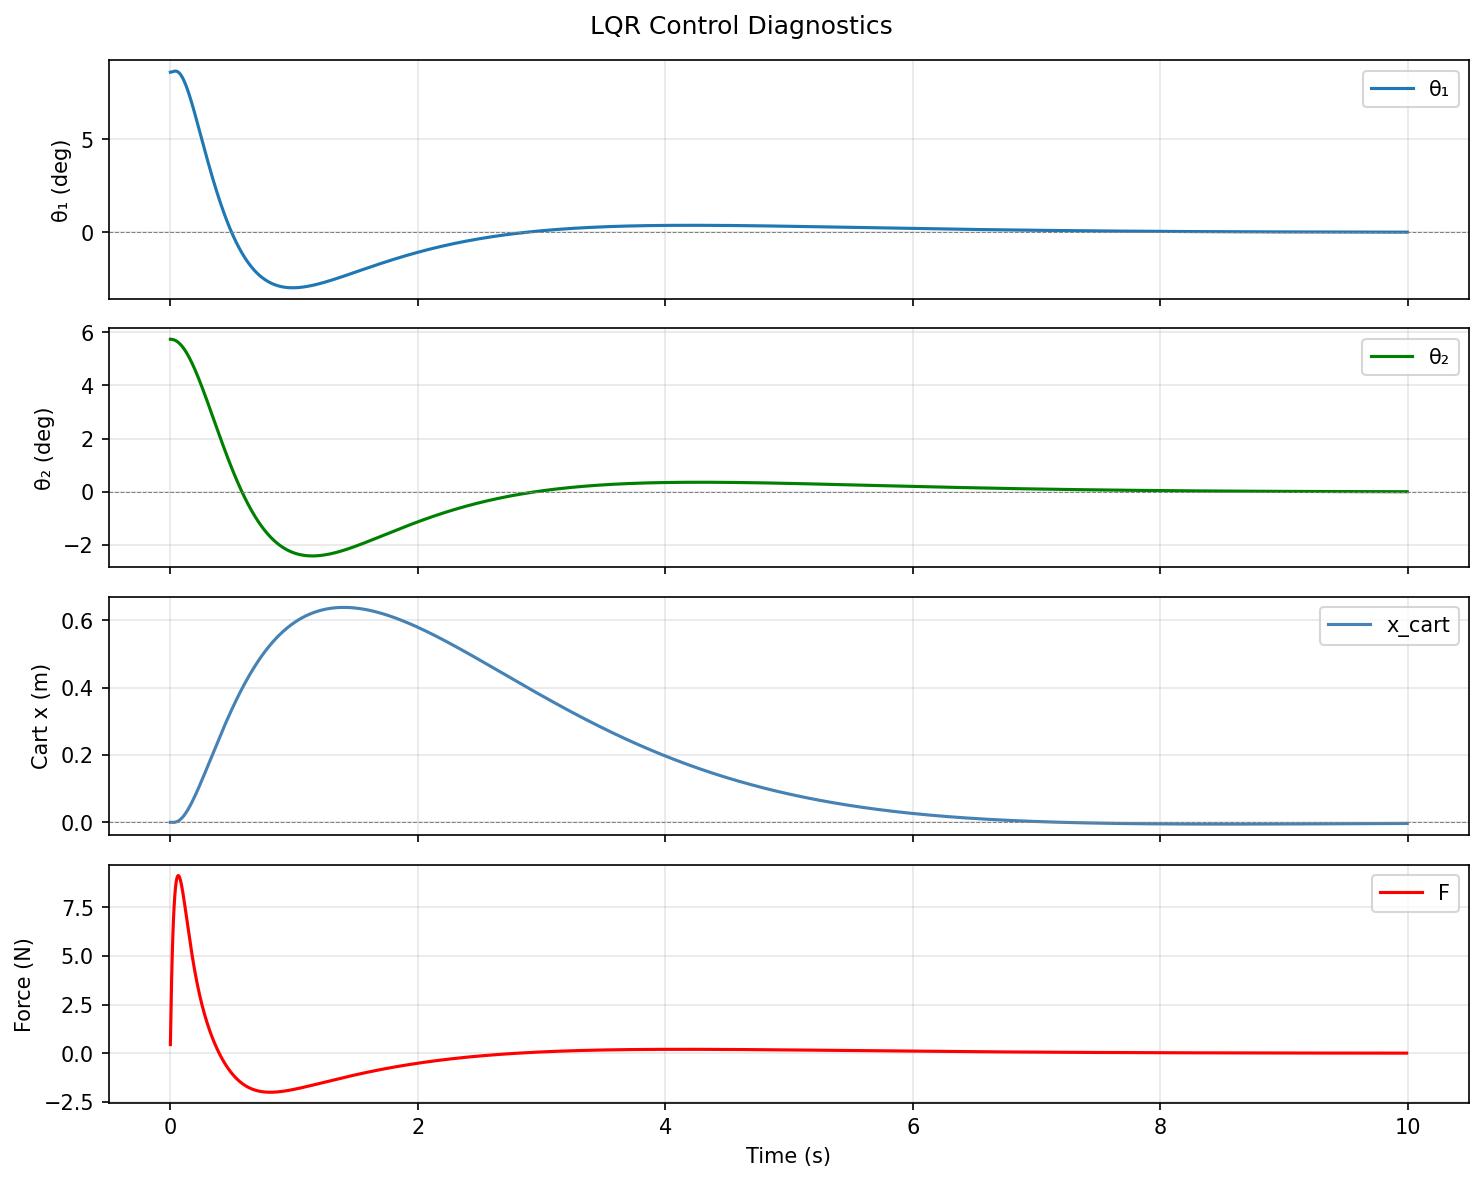
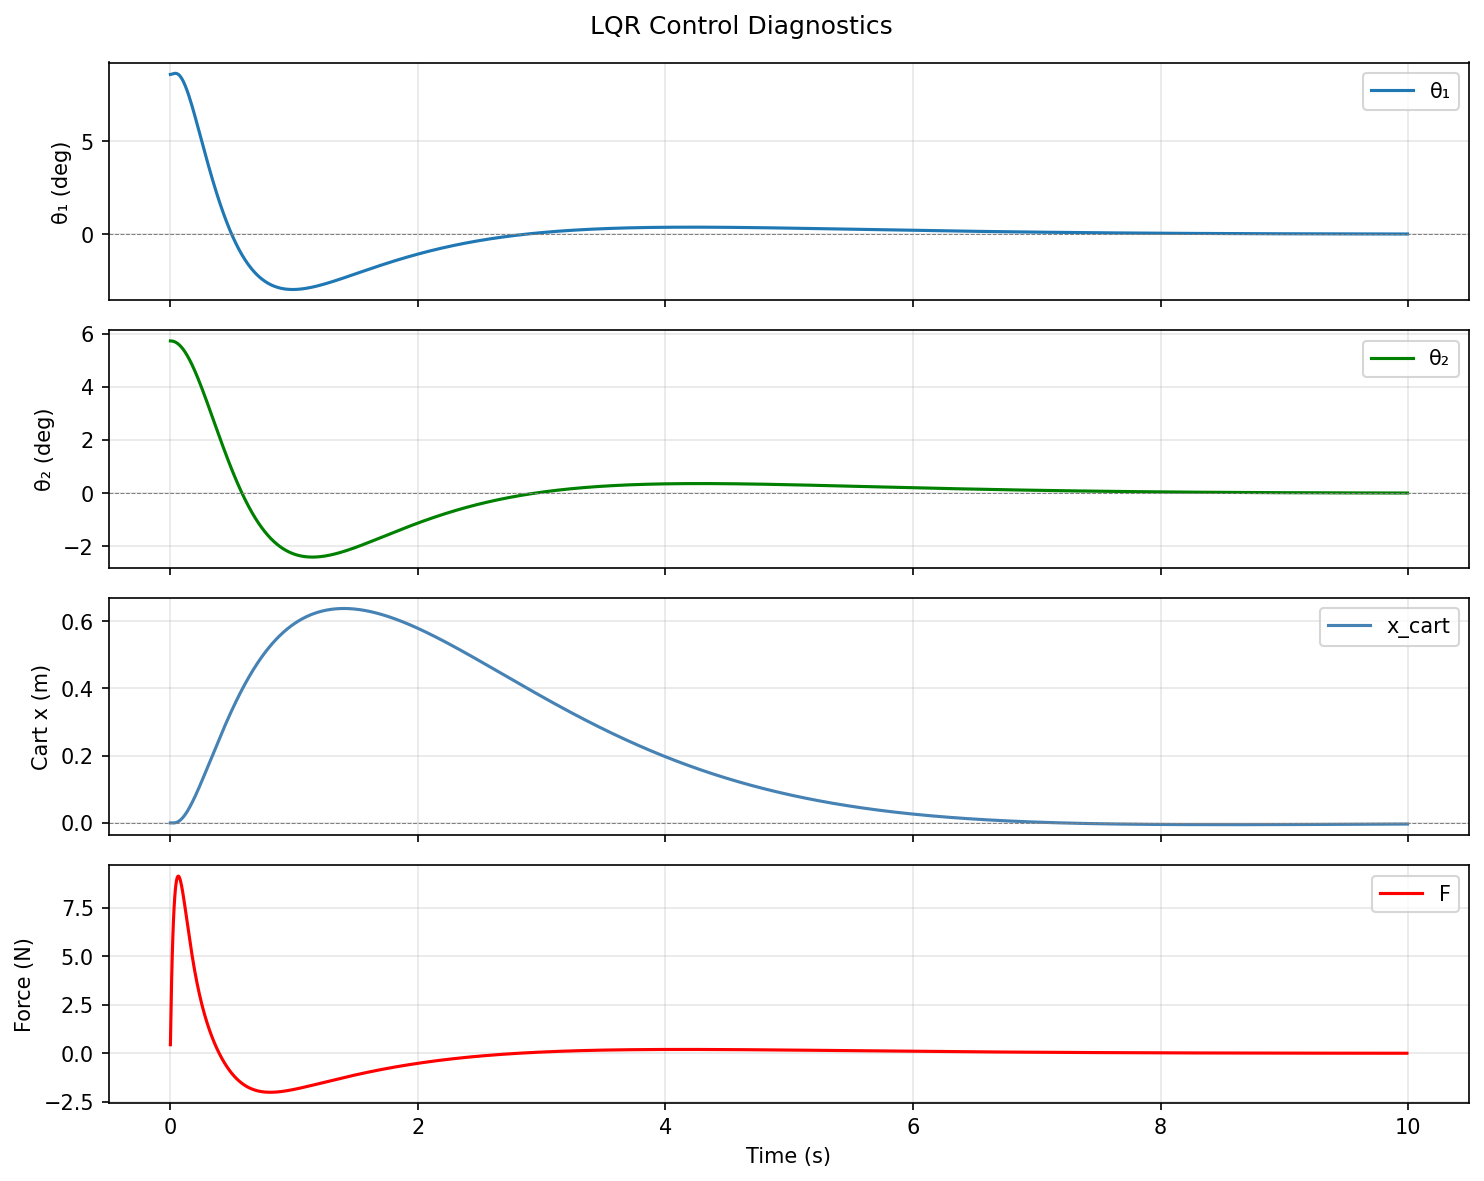
edit axis limits

diff --git a/double_pendulum_lqr.py b/double_pendulum_lqr.py
@@ -204,7 +204,7 @@ fig_diag.savefig('assets/lqr_diagnostics.png', dpi=150, bbox_inches='tight')
 # Animation
 fig, ax = plt.subplots(figsize=(10, 6))
 ax.set_aspect('equal')
-ax.set_ylim(-3, 2)
+ax.set_ylim(-3, 3)
 ax.set_xlabel('x')
 ax.set_ylabel('y')
 ax.set_title('Cart + Double Pendulum')

diff --git a/double_pendulum_nmpc.py b/double_pendulum_nmpc.py
@@ -178,7 +178,7 @@ fig_diag.savefig('assets/nmpc_diagnostics.png', dpi=150, bbox_inches='tight')
 # Animation
 fig, ax = plt.subplots(figsize=(10, 6))
 ax.set_aspect('equal')
-ax.set_ylim(-3, 2)
+ax.set_ylim(-3, 3)
 ax.set_xlabel('x')
 ax.set_ylabel('y')
 ax.set_title('Cart + Double Pendulum')

diff --git a/double_pendulum_pid.py b/double_pendulum_pid.py
@@ -175,7 +175,7 @@ fig_diag.savefig('assets/pid_diagnostics.png', dpi=150, bbox_inches='tight')
 # Animation
 fig, ax = plt.subplots(figsize=(10, 6))
 ax.set_aspect('equal')
-ax.set_ylim(-3, 2)
+ax.set_ylim(-3, 3)
 ax.set_xlabel('x')
 ax.set_ylabel('y')
 ax.set_title('Cart + Double Pendulum')